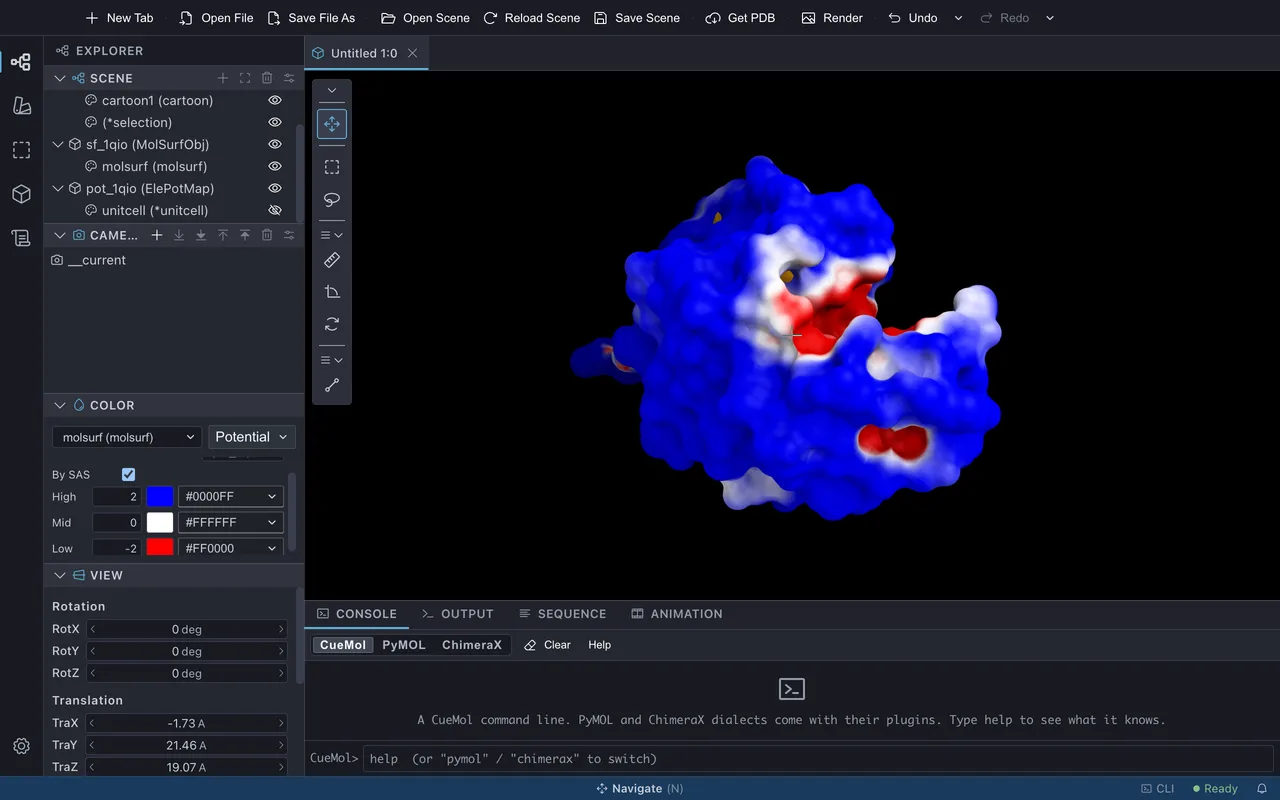
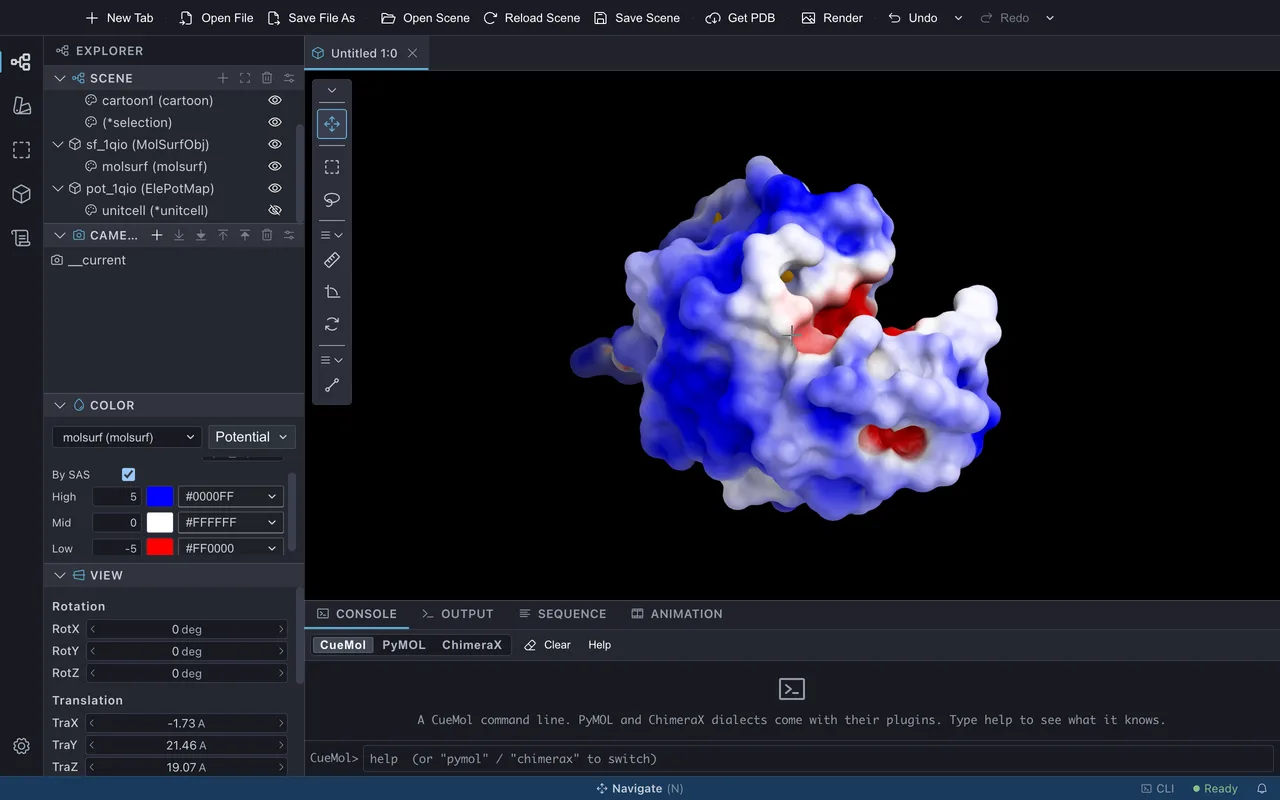
Widen the electrostatic potential range in the surface tutorial to 5 kT/e

Changed region(s): [[0.4375, 0.1875, 0.7812, 0.6562]]

diff --git a/docs-verify/specs/structure/surface-elepot.spec.ts b/docs-verify/specs/structure/surface-elepot.spec.ts
@@ -127,8 +127,8 @@ test.describe.serial('分子表面の静電ポテンシャル表示', { tag: '@n
         const sas = pane.locator('.color-field-row').filter({ hasText: 'By SAS' }).locator('input[type="checkbox"]');
         if (!(await sas.isChecked())) await sas.click();
         await expect(sas).toBeChecked();
-        // 「6. High を 2、Low を -2 程度にします」(既定は ±10)
-        for (const [label, v] of [['High', '2'], ['Low', '-2']] as const) {
+        // 「6. High を 5、Low を -5 程度にします」(既定は ±10)
+        for (const [label, v] of [['High', '5'], ['Low', '-5']] as const) {
             const input = pane.locator('.color-elepot-ramp-row')
                 .filter({ has: w.locator('.color-elepot-ramp-label', { hasText: new RegExp(`^${label}$`) }) })
                 .locator('input').first();

diff --git a/docs/ja/tutorials/structure/surface-elepot.md b/docs/ja/tutorials/structure/surface-elepot.md
@@ -76,13 +76,14 @@ Settings でパスを指定します (→ [外部ツールの設定](../../insta
 5. **By SAS** を有効にします。表面 (SES) 上の値そのままでは電荷のある原子に近すぎて
    まだらな着色になりがちなので、表面から水分子の半径 (1.4 Å) だけ外側の
    溶媒接触表面 (SAS) 上の値で着色します。
-6. **High** を **2**、**Low** を **-2** 程度にします。値の単位は kT/e で、
-   既定の ±10 のままでは色がほとんど付きません。範囲を狭めるほど
-   コントラストが強くなります。
+6. **High** を **5**、**Low** を **-5** 程度にします。値の単位は kT/e です。
+   範囲を狭めるほどコントラストが強くなりますが、狭めすぎると表面のほとんどが
+   濃い青や赤になり、分布がわからなくなります (この例では ±2〜3 で青に偏ります)。
+   既定の ±10 では色が薄くなります。いくつか試して、分布がわかる範囲にしてください。
 
 設定項目の詳細は [Coloring](../../reference/coloring.md) を参照してください。
 
-![Color パネルの Electrostatic potential の設定。By SAS を有効にし、High を 2、Low を -2 にした](../../../assets/images/tutorials/structure/surface-elepot/4-color-pane.webp){ width="318" .on-glb }
+![Color パネルの Electrostatic potential の設定。By SAS を有効にし、High を 5、Low を -5 にした](../../../assets/images/tutorials/structure/surface-elepot/4-color-pane.webp){ width="318" .on-glb }
 
 ![静電ポテンシャルで着色した表面](../../../assets/images/tutorials/structure/surface-elepot/4-colored.webp){ .on-glb }
 
@@ -117,7 +118,7 @@ create_surface 1qio, protein, density=5
 calc_elepot 1qio, protein
 hide pot_1qio/unitcell
 # 4. 表面を静電ポテンシャルで着色する
-set_elepot_coloring sf_1qio/molsurf, pot_1qio, -2, 2
+set_elepot_coloring sf_1qio/molsurf, pot_1qio, -5, 5
 set sf_1qio/molsurf.ramp_above, true
 # 5. 半透明の表面と cartoon を重ねる
 set sf_1qio/molsurf.alpha, 0.5
